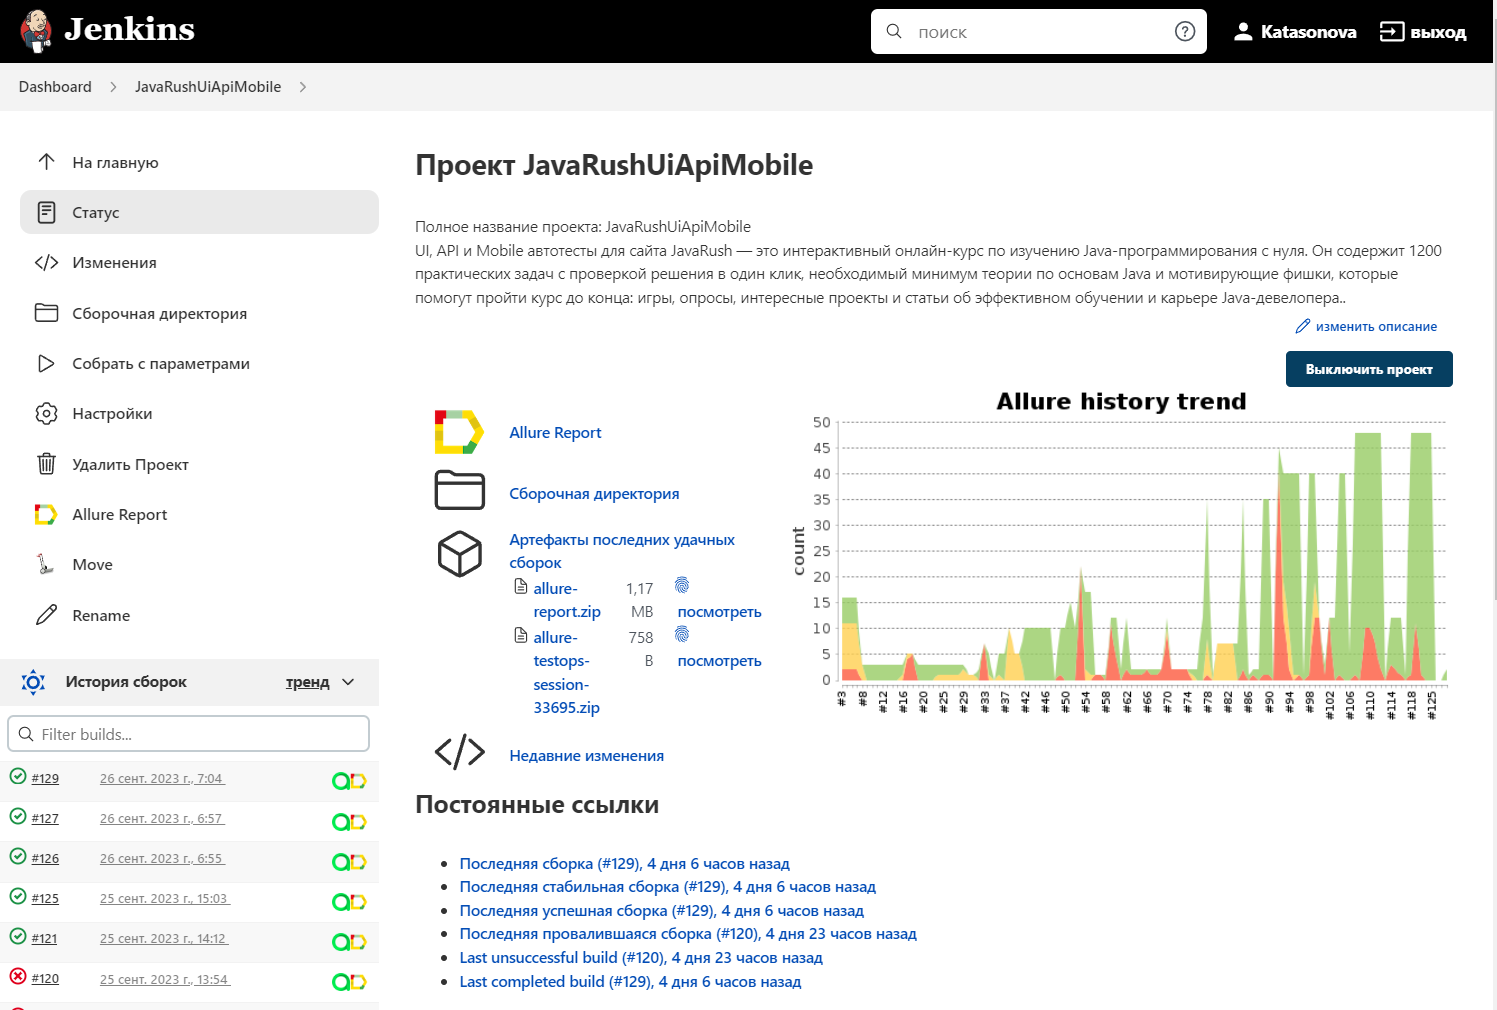
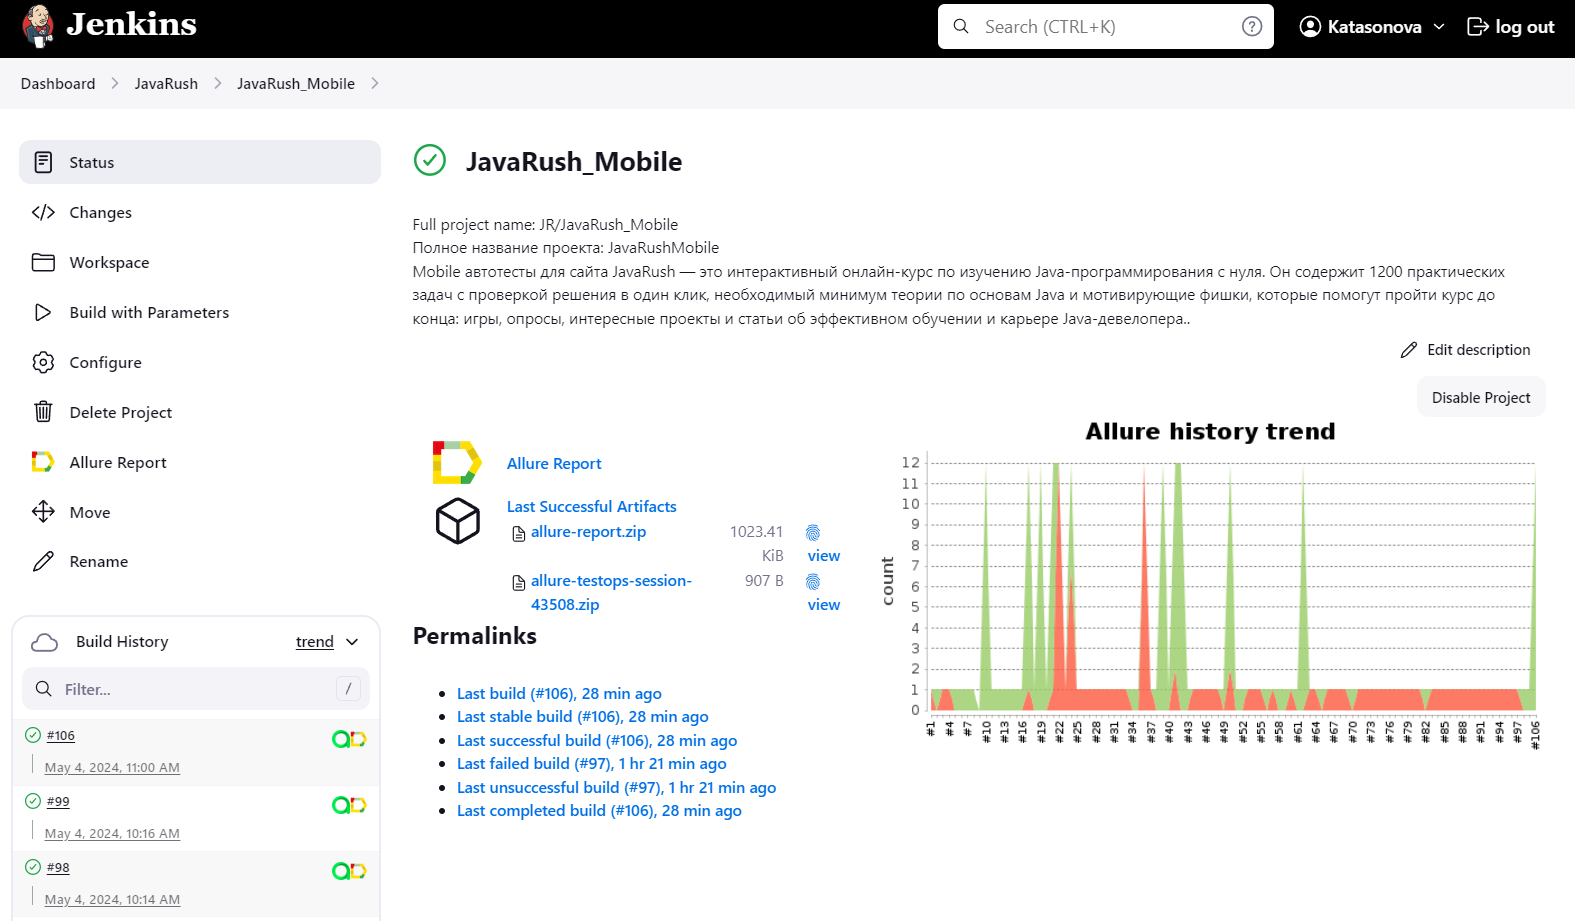
cookiegvfh

diff --git a/src/test/java/mobile/TestBaseMobile.java b/src/test/java/mobile/TestBaseMobile.java
@@ -28,10 +28,10 @@ public class TestBaseMobile {
 
     @BeforeAll
     public static void setup() {
-        Configuration.browser = BrowserstackDriver.class.getName();
-        if (isRemote) {
+//        Configuration.browser = BrowserstackDriver.class.getName();
+//        if (isRemote) {
             Configuration.browser = LocalDriver.class.getName();
-        }
+//        }
         addListener("AllureSelenide", new AllureSelenide());
         Configuration.pageLoadStrategy = "eager";
         Configuration.timeout = 10000;
@@ -46,10 +46,10 @@ public class TestBaseMobile {
 
     @AfterEach
     public void afterEach() {
-        String sessionId = sessionId().toString();
-        if (isRemote) {
-            Attach.addVideo(sessionId);
-        }
+//        String sessionId = sessionId().toString();
+//        if (isRemote) {
+//            Attach.addVideo(sessionId);
+//        }
         closeWebDriver();
     }
 }

diff --git a/src/test/java/mobile/LikesUnderTheArticleTest.java b/src/test/java/mobile/LikesUnderTheArticleTest.java
@@ -23,6 +23,7 @@ public class LikesUnderTheArticleTest extends TestBaseMobile {
         likesUnderTheArticleStep.pressReactionsIcon();
         likesUnderTheArticleStep.pressLikeDesc();
         int likesAfterLike = likesUnderTheArticleStep.parsTextToNumber();
-        Assertions.assertEquals((likesBeforeLike + 1), (likesAfterLike), ":неправильное количество лайков");
+        Assertions.assertNotEquals((likesBeforeLike), (likesAfterLike), ":количество лайков не изменилось");
+        likesUnderTheArticleStep.pressReactionsIcon();
     }
 }

diff --git a/README.md b/README.md
@@ -111,7 +111,7 @@ browserstack.app=app
 <details>
   <summary>Jenkins</summary>
 
-[Перейти к сборке в Jenkins](https://jenkins.autotests.cloud/job/JavaRushUiApiMobile/)
+[Перейти к сборке в Jenkins](https://jenkins.autotests.cloud/job/JR/job/JavaRush_Mobile/)
 
 ![Image2](.github/sc/jenkins1.png)
 ![Image3](.github/sc/jenkins2.png)
